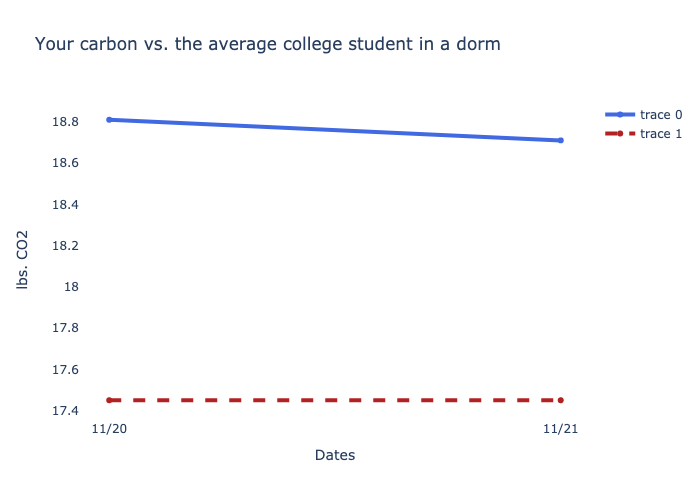
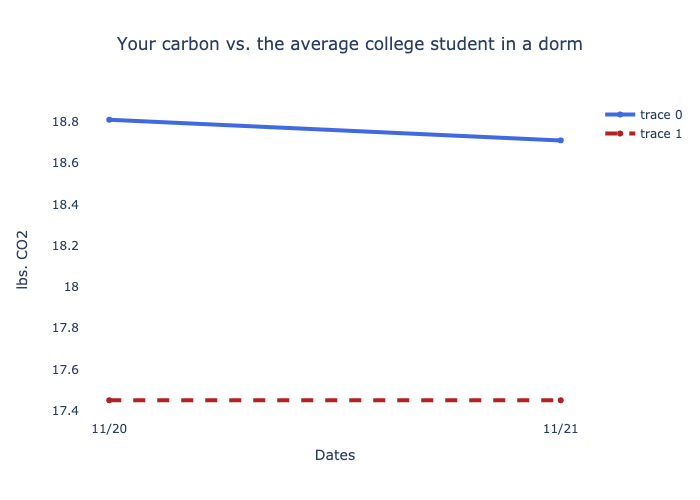
aesthetic graph changes

Changed region(s): [[0.06, 0.06, 0.84, 0.12]]

diff --git a/avg_carbon.py b/avg_carbon.py
@@ -13,7 +13,7 @@ def avg_carbon(usr_carbon, userID):
         dcarbon.append(c[0])
         date = datetime.strptime(c[1], '%Y-%m-%d')
         dates.append(date)
-        
+
     acarbon = [DAILY_AVG] * len(dates)
     fig = go.Figure()
     fig.add_trace(go.Scatter(x=dates, y=dcarbon, line=dict(color='royalblue', width=4)))
@@ -23,6 +23,7 @@ def avg_carbon(usr_carbon, userID):
         {'plot_bgcolor':'rgba(0, 0, 0, 0)',
         'paper_bgcolor': 'rgba(0, 0, 0, 0)'},
         title="Your carbon vs. the average college student in a dorm",
+        title_x=0.5,
         xaxis = dict(
             tickmode='array',
             tickvals=dates)
